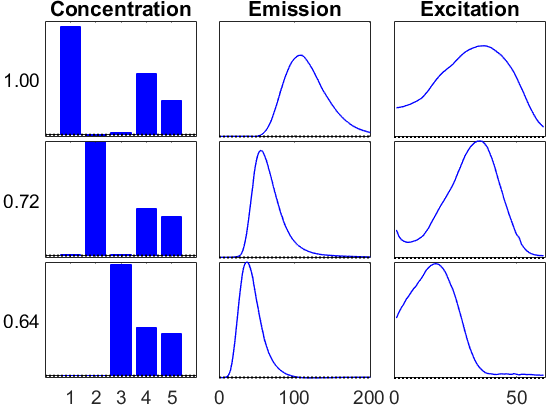
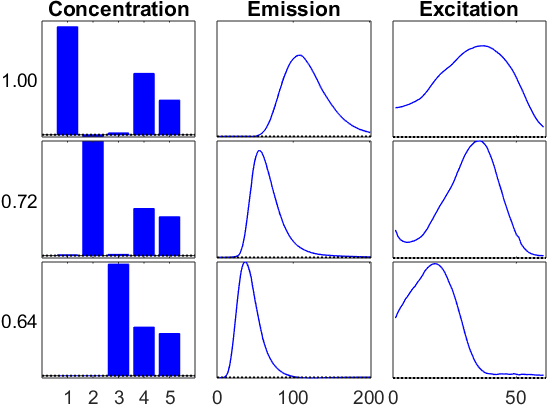
Adding updated documentation from last commit.

diff --git a/doc/html/cp_als_doc.html b/doc/html/cp_als_doc.html
@@ -6,7 +6,7 @@
    <!--
 This HTML was auto-generated from MATLAB code.
 To make changes, update the MATLAB code and republish this document.
-      --><title>Alternating least squares for CANDECOMP/PARAFAC (CP) Decomposition</title><meta name="generator" content="MATLAB 9.2"><link rel="schema.DC" href="http://purl.org/dc/elements/1.1/"><meta name="DC.date" content="2017-09-12"><meta name="DC.source" content="cp_als_doc.m"><style type="text/css">
+      --><title>Alternating least squares for CANDECOMP/PARAFAC (CP) Decomposition</title><meta name="generator" content="MATLAB 9.2"><link rel="schema.DC" href="http://purl.org/dc/elements/1.1/"><meta name="DC.date" content="2017-12-26"><meta name="DC.source" content="cp_als_doc.m"><style type="text/css">
 html,body,div,span,applet,object,iframe,h1,h2,h3,h4,h5,h6,p,blockquote,pre,a,abbr,acronym,address,big,cite,code,del,dfn,em,font,img,ins,kbd,q,s,samp,small,strike,strong,sub,sup,tt,var,b,u,i,center,dl,dt,dd,ol,ul,li,fieldset,form,label,legend,table,caption,tbody,tfoot,thead,tr,th,td{margin:0;padding:0;border:0;outline:0;font-size:100%;vertical-align:baseline;background:transparent}body{line-height:1}ol,ul{list-style:none}blockquote,q{quotes:none}blockquote:before,blockquote:after,q:before,q:after{content:'';content:none}:focus{outine:0}ins{text-decoration:none}del{text-decoration:line-through}table{border-collapse:collapse;border-spacing:0}
 
 html { min-height:100%; margin-bottom:1px; }
@@ -108,9 +108,9 @@ CP_ALS:
  Iter 35: f = 9.743319e-01 f-delta = 1.1e-04
  Iter 36: f = 9.744252e-01 f-delta = 9.3e-05
  Final f = 9.744252e-01 
-</pre><p>We typically can achieve a final fit of f = 0.97. The method stops when the change in the fit becomes less than the specified tolerance, which defaults to 1-e4.</p><h2 id="4">Visualize the results</h2><p>Use the <tt>ktensor/viz</tt> function to visualize the results.</p><pre class="codeinput">vizopts = {<span class="string">'Plottype'</span>,{<span class="string">'bar'</span>,<span class="string">'line'</span>,<span class="string">'line'</span>},<span class="keyword">...</span>
-    <span class="string">'Modetitles'</span>,{<span class="string">'Concentration'</span>,<span class="string">'Emission'</span>,<span class="string">'Excitation'</span>},<span class="keyword">...</span>
-    <span class="string">'Factortitle'</span>,<span class="string">'Weight'</span>,<span class="string">'Vspacebottom'</span>,0.10,<span class="string">'Hspace'</span>,0.04,<span class="string">'Hspaceleft'</span>,0.08};
+</pre><p>We typically can achieve a final fit of f = 0.97. The method stops when the change in the fit becomes less than the specified tolerance, which defaults to 1-e4.</p><h2 id="4">Visualize the results</h2><p>Use the <tt>ktensor/viz</tt> function to visualize the results.</p><pre class="codeinput">vizopts = {<span class="string">'PlotCommands'</span>,{<span class="string">'bar'</span>,<span class="string">'line'</span>,<span class="string">'line'</span>},<span class="keyword">...</span>
+    <span class="string">'ModeTitles'</span>,{<span class="string">'Concentration'</span>,<span class="string">'Emission'</span>,<span class="string">'Excitation'</span>},<span class="keyword">...</span>
+    <span class="string">'BottomSpace'</span>,0.10,<span class="string">'HorzSpace'</span>,0.04,<span class="string">'Normalize'</span>,0};
 info1 = viz(M1,<span class="string">'Figure'</span>,1,vizopts{:});
 </pre><img vspace="5" hspace="5" src="cp_als_doc_01.png" alt=""> <h2 id="5">Run again with a different initial guess, output the initial guess.</h2><p>This time we have two outputs. The first output is the solution as a ktensor. The second output is a cell array containing the initial guess. Since the first mode is not needed, it is omitted from the cell array.</p><pre class="codeinput">[M2bad,U2] = cp_als(X,3);
 </pre><pre class="codeoutput">
@@ -437,11 +437,10 @@ M1 = cp_als(X,3); %<- Call the method
 
 %% Visualize the results
 % Use the |ktensor/viz| function to visualize the results.
-vizopts = {'Plottype',{'bar','line','line'},...
-    'Modetitles',{'Concentration','Emission','Excitation'},...
-    'Factortitle','Weight','Vspacebottom',0.10,'Hspace',0.04,'Hspaceleft',0.08};
+vizopts = {'PlotCommands',{'bar','line','line'},...
+    'ModeTitles',{'Concentration','Emission','Excitation'},...
+    'BottomSpace',0.10,'HorzSpace',0.04,'Normalize',0};
 info1 = viz(M1,'Figure',1,vizopts{:});
-
 
 %% Run again with a different initial guess, output the initial guess.
 % This time we have two outputs. The first output is the solution as a
